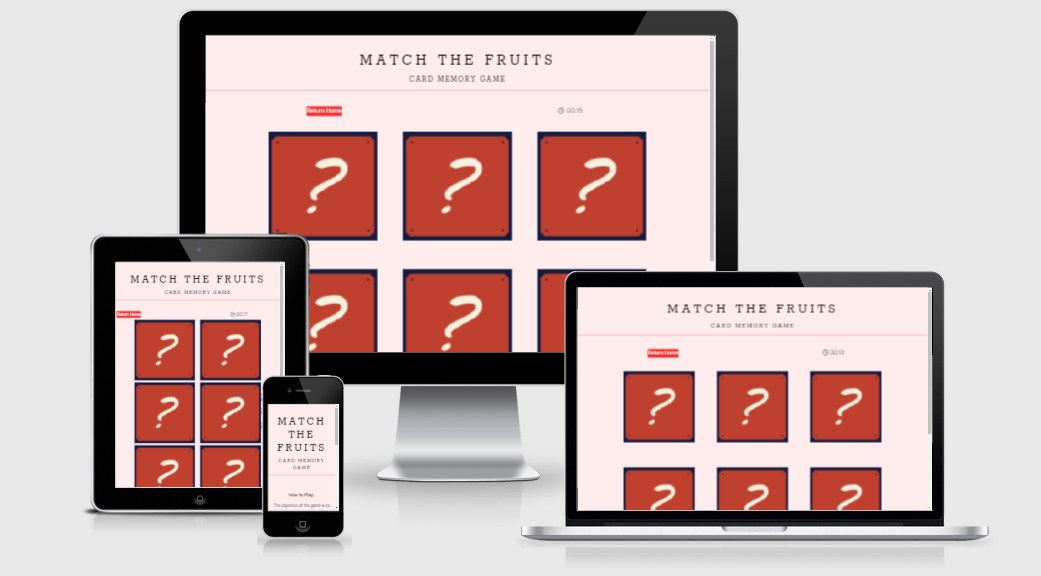
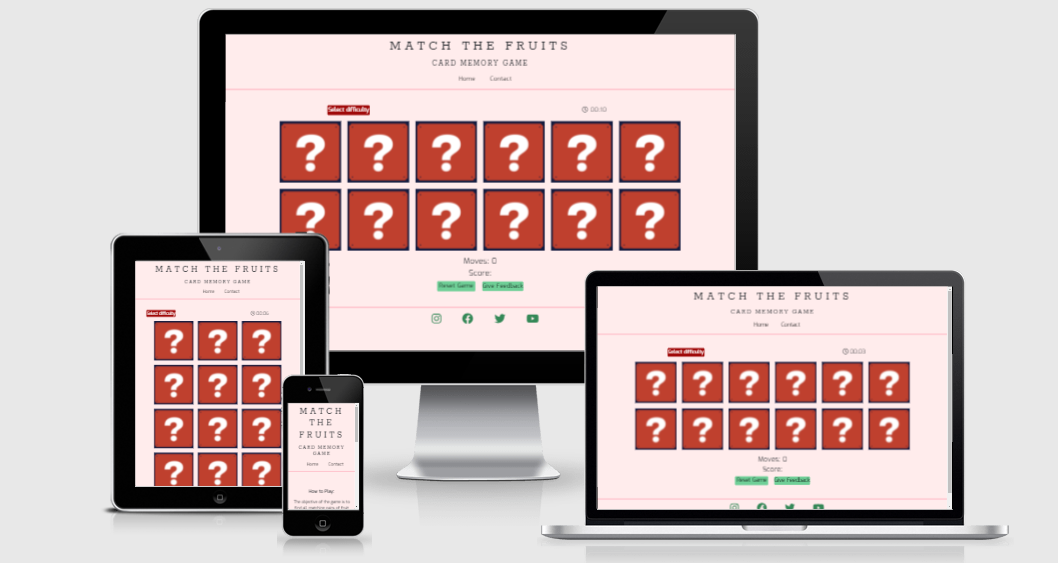
docs: Add updated mockup image

diff --git a/README.md b/README.md
@@ -143,7 +143,7 @@ The page is fully responsive on mobile and tablet. The copy found in Section 2, 
 
 **Section 1: Header**
 
-This header is the same used throughout the website and communicates to users the name of the game and what type of game it is. Unlike typical headers used in websites such as e-commerce sites, portfolio sites and lead generation sites, no inbound links are found in this header. I did not include links in the header as I wanted the user to be able to navigate the website based on what place they were in the game. Also, there are navigational links on all pages on the website to ensure users can navigate it well. A user is no more than 3 clicks away from anywhere on the site. While the header is the same colour as the website background, a bottom border is visible to differentiate it from the rest of the page.
+This header is the same used throughout the website and communicates to users the name of the game and what type of game it is. The header has navigational links to the two main pages of the site. If for any reason a user needs to re-select the difficulty or re-read the instructions they can click 'Home' in the navigation bar or 'Select difficulty' button ocne the game is loaded. A user is never no more than 3 clicks away from anywhere on the site. While the header is the same colour as the website background, a bottom border is visible to differentiate it from the rest of the page.
 
 ![Header](https://github.com/TaraRhoseyn/CI_MS2_CardMemoryGame/blob/main/docs/features/feature-one-s1.PNG)
 
